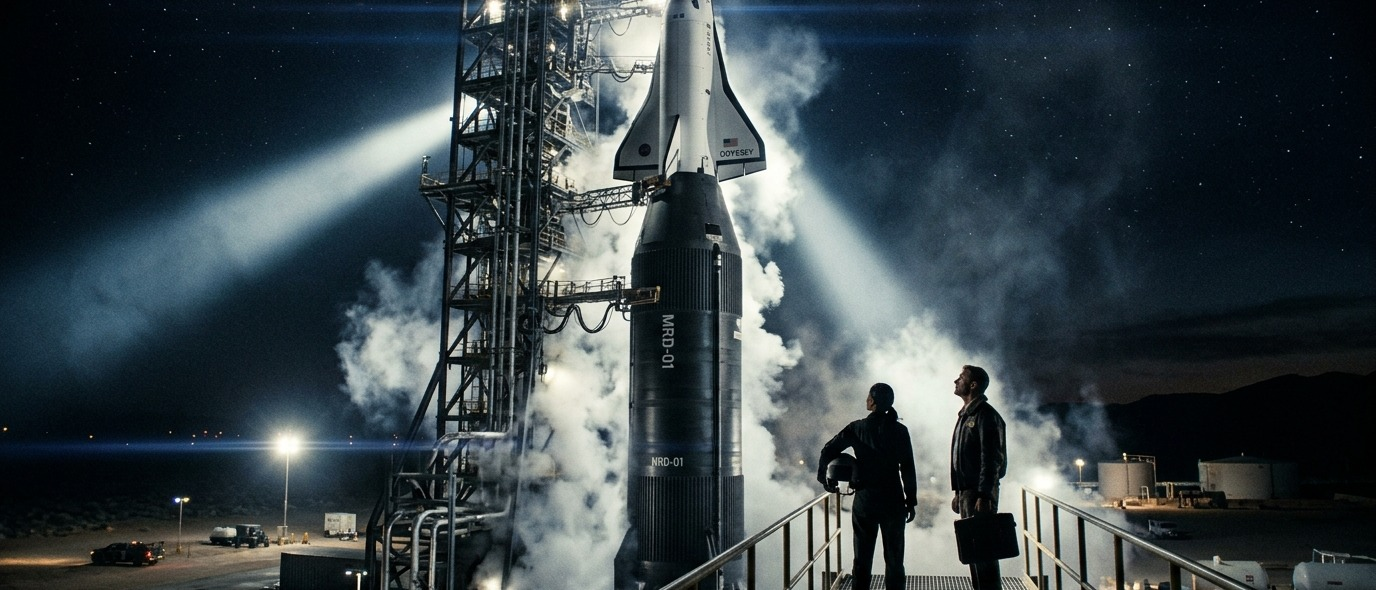
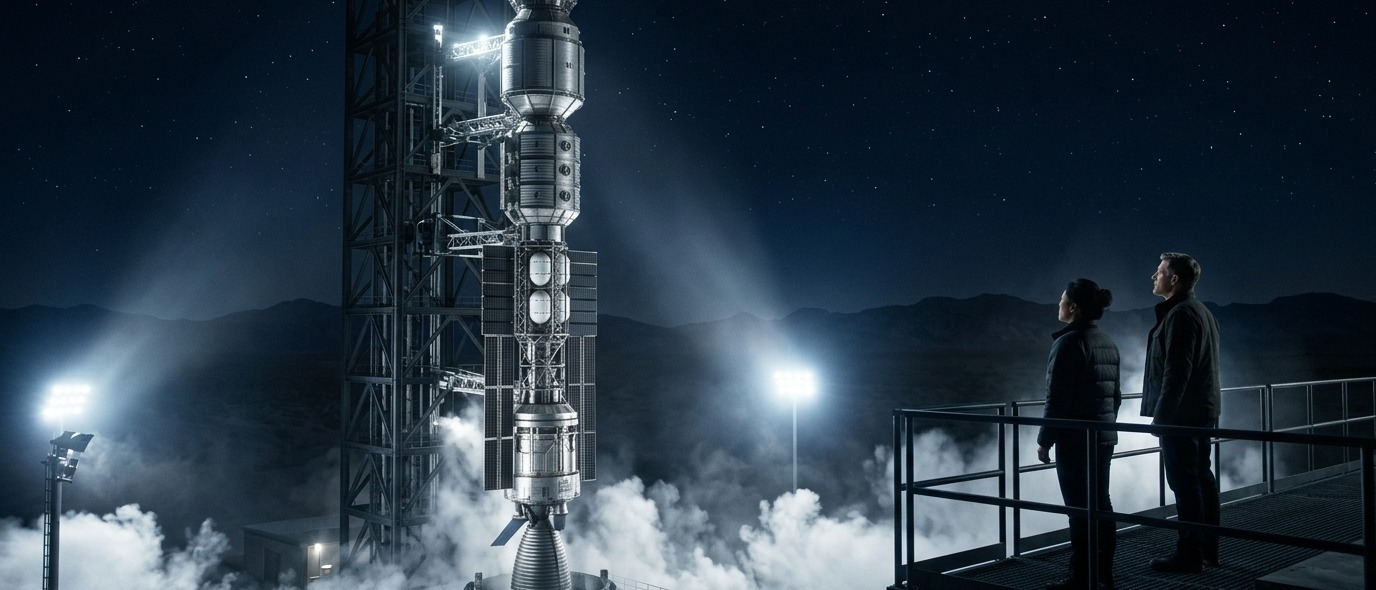
feat: muro de comentarios nativo por capitulo en tiempo real con Firebase Firestore

diff --git a/index.html b/index.html
@@ -18,7 +18,7 @@
         href="https://fonts.googleapis.com/css2?family=Cormorant+Garamond:ital,wght@0,400;0,600;0,700;1,400&family=Inter:wght@300;400;500;600;700&family=JetBrains+Mono:wght@400;600&family=Outfit:wght@400;600;700;800&display=swap"
         rel="stylesheet">
 
-    <link rel="stylesheet" href="style.css?v=1795042598905">
+    <link rel="stylesheet" href="style.css?v=1795069940522">
 </head>
 
 <body>
@@ -898,8 +898,8 @@
     <script src="https://www.gstatic.com/firebasejs/10.12.2/firebase-firestore-compat.js"></script>
 
     <!-- Cargar Datos y Lógica de la App (con control de versión para forzar actualización en móviles) -->
-    <script src="chapters-data.js?v=1795042598905"></script>
-    <script src="app.js?v=1795042598905"></script>
+    <script src="chapters-data.js?v=1795069940522"></script>
+    <script src="app.js?v=1795069940522"></script>
 
     <!-- Cloudflare Web Analytics (con soporte SPA para medir capítulos individuales) -->
     <script defer src='https://static.cloudflareinsights.com/beacon.min.js'

diff --git a/chapters-data.js b/chapters-data.js
@@ -5,9 +5,9 @@ const NOVEL_DATA = {
   "director": "Pedro Garat (Dirección & Coordinación) + Antigravity (IA)",
   "author": "Pedro Garat & Antigravity",
   "coverImage": "cover.jpg",
-  "lastUpdated": "18/11/2026, 23:56:38",
-  "buildTimestamp": "2026-11-18T22:56:38.905Z",
-  "buildId": 1795042598905,
+  "lastUpdated": "19/11/2026, 07:32:20",
+  "buildTimestamp": "2026-11-19T06:32:20.522Z",
+  "buildId": 1795069940522,
   "totalChapters": 25,
   "totalWords": 119378,
   "totalPages": "434.0",

diff --git a/historial/historial.md b/historial/historial.md
@@ -2,8 +2,8 @@
 ## *La Canción del Silencio / Antigravity*
 
 > **Agente Responsable:** **Memo** (Cronista y Archivero Mayor)
-> **Última actualización:** 2026-11-18 22:57:04 UTC
-> **Total de sesiones recopiladas:** 58
+> **Última actualización:** 2026-11-19 06:32:35 UTC
+> **Total de sesiones recopiladas:** 59
 
 Este documento recopila la transcripción íntegra y ordenada de las conversaciones, instrucciones, acuerdos técnicos, debates de trama y decisiones editoriales entre el Autor y Antigravity.
 
@@ -69,6 +69,7 @@ Este documento recopila la transcripción íntegra y ordenada de las conversacio
 - **[Sesión 56 — 2026-10-29 20:38:54 UTC](#sesión-56---59d754fa)**: /capitan-memo Quiero que revises toda la novela por si hay incoherencias, en nom...
 - **[Sesión 57 — 2026-11-02 07:26:43 UTC](#sesión-57---1d93dec2)**: @[f:\Onedrive\ANTIGRAVITY\NOVELA_3\novela\capitulos\capitulo_23.md:L156] Al prin...
 - **[Sesión 58 — 2026-11-08 09:35:38 UTC](#sesión-58---ff8430b6)**: haz un prompt como los anteriores que hicimos pero en el que aparezcan los agent...
+- **[Sesión 59 — 2026-11-19 06:30:54 UTC](#sesión-59---c43a3725)**: (Sin texto inicial)...
 
 ---
 
@@ -17092,7 +17093,7 @@ si porfa
 ## Sesión 58 - ff8430b6
 **Identificador completo:** `ff8430b6-7faf-4976-9a06-2441aa019e75`  
 **Fecha y Hora de inicio:** `2026-11-08 09:35:38 UTC`  
-**Intercambios registrados:** 97
+**Intercambios registrados:** 101
 
 ### 👤 Autor *(2026-11-08 09:35:38 UTC)*
 
@@ -18596,6 +18597,50 @@ Cuando actualices los textos en tu panel de autor de Inkspired, puedes responder
 - Actualiza la web con los nuevos banners
 - Elimina la opción de audiolibro
 - Cuando le dasl amenu de arriba a la izquierda que sólo aparezca la lista de capítulos
+
+### 🤖 Antigravity / Asistente *(2026-11-18 22:57:33 UTC)*
+
+Cambios aplicados y compilados en local:
+
+1. **Los 25 banners actualizados:** `node build-novel-data.js` ha enlazado los **25 banners 21:9** (`cap_1.jpg` a `cap_25.jpg`) en [chapters-data.js](file:///g:/OneDrive/ANTIGRAVITY/NOVELA_3/chapters-data.js) (`v=1795042598905`).
+2. **Opción de Audiolibro eliminada:** Retirados el botón **Audiolibro** de la cabecera, el botón **Escuchar Audiolibro** dentro de cada capítulo, el modal del reproductor en [index.html](file:///g:/OneDrive/ANTIGRAVITY/NOVELA_3/index.html) y su inicialización en [app.js](file:///g:/OneDrive/ANTIGRAVITY/NOVELA_3/app.js).
+3. **Menú izquierdo simplificado:** Al pulsar el icono de menú arriba a la izquierda (`#sidebar`), ahora solo muestra el título **Capítulos** (con el botón `×`) y la **lista de capítulos** limpia, sin portada, estadísticas, filtros ni botones extra.
+
+Estoy subiendo los cambios a GitHub (`task-1186`); en unos segundos te confirmo el despliegue.
+
+### 🤖 Antigravity / Asistente *(2026-11-18 22:57:50 UTC)*
+
+¡Despliegue completado en GitHub!
+
+* **Commit publicado:** `9164979` en `main` (`https://pedrogarat.github.io/sombra/`).
+* **Banners subidos:** Los 25 capítulos cuentan ya con su banner 21:9 (se acaban de añadir `cap_8.jpg` hasta `cap_25.jpg` junto con los 7 anteriores).
+* **Interfaz actualizada:** Audiolibro eliminado y menú izquierdo (`#sidebar`) limpio mostrando únicamente la lista de capítulos.
+
+En ~1 minuto GitHub Pages reflejará la versión `v=1795042598905` (puedes pulsar el botón `🔄` en la cabecera si tu navegador guarda caché anterior).
+
+### 👤 Autor *(2026-11-19 06:30:15 UTC)*
+
+La imagen banner del capítulo 18 muestra una nave que no tiene nada que ver con la del 19.
+Cámbiala prevaleciendo la del 19 (o similar). 
+Actualiza la web también
+
+### 🤖 Antigravity / Asistente *(2026-11-19 06:30:54 UTC)*
+
+He revisado [cap_18.jpg](file:///g:/OneDrive/ANTIGRAVITY/NOVELA_3/img/banners/cap_18.jpg) y [cap_19.jpg](file:///g:/OneDrive/ANTIGRAVITY/NOVELA_3/img/banners/cap_19.jpg): efectivamente, el 18 mostraba un cohete negro con un transbordador alado (con texto inventado), mientras que el 19 muestra la nave modular cilíndrica metálica con celosía, tanques y paneles/radiadores.
+
+He actualizado el prompt en [prompts_banners_21_9.md](file:///g:/OneDrive/ANTIGRAVITY/NOVELA_3/novela/prompts_banners_21_9.md#L84-L85) y estoy generando el nuevo banner del **Capítulo 18** tomando la nave de `cap_19.jpg` como referencia directa (vertical en la rampa de lanzamiento con los paneles plegados, sin alas y sin texto). En cuanto termine, lo recorto a 21:9, lo verifico y actualizo la web en GitHub.
+
+
+---
+
+## Sesión 59 - c43a3725
+**Identificador completo:** `c43a3725-bafc-4f19-90e4-3e13e50eded1`  
+**Fecha y Hora de inicio:** `2026-11-19 06:30:54 UTC`  
+**Intercambios registrados:** 1
+
+### 🤖 Antigravity / Asistente *(2026-11-19 06:31:42 UTC)*
+
+Generated and reported `C:\Users\Usuario\.gemini\antigravity\brain\ff8430b6-7faf-4976-9a06-2441aa019e75\cap_18_la_rampa_1795069885325.jpg` to the parent agent.
 
 
 ---

diff --git a/novela/prompts_banners_21_9.md b/novela/prompts_banners_21_9.md
@@ -82,7 +82,7 @@ Para mantener la coherencia visual en todos los capítulos, cada prompt inyecta 
 > **Prompt:** `Ultra-wide 21:9 panoramic harsh daylight wasteland shot across a desolate British countryside road in Suffolk under blinding white solar radiation. Parked outside an isolated brick farmhouse at dawn stands a heavily modified, aluminum-foil-sealed Land Rover Defender; beside it, David Wright (47-year-old British man with stubble, heavy leather coat, welding helmet resting on his arm) checks the reinforced door seals before setting out. Ultra-wide 21:9 panoramic cinematic film still, stark British wasteland realism, no text, aspect ratio 21:9.`
 
 ### Capítulo 18: La Rampa
-> **Prompt:** `Ultra-wide 21:9 panoramic monumental night pre-launch scene at Nellis Air Force Base, Nevada. A colossal two-stage white-and-black spacecraft—the digital MRD base topped with the sleek analog MAA spearhead—stands bathed in blinding xenon floodlights on an 80-meter steel gantry amidst venting liquid hydrogen vapor. At the base of the gantry, Dra. Sarah Lin and Dr. Thomas Wright look up in quiet awe before boarding begins. Ultra-wide 21:9 panoramic cinematic film still, epic aerospace scale, no text, aspect ratio 21:9.`
+> **Prompt:** `Ultra-wide 21:9 panoramic monumental night pre-launch scene at Nellis Air Force Base, Nevada. Standing vertically on an 80-meter steel launch gantry bathed in blinding xenon floodlights and billowing liquid hydrogen vapor is the exact modular deep-space spacecraft from Chapter 19: a cylindrical metallic silver-grey and titanium multi-module stack with ribbed pressure cylinders, exposed structural truss section with white propellant tanks, folded-back solar/radiator panels secured flush against the hull for launch, and a heavy nuclear-thermal bell nozzle at the base—NO shuttle wings, NO text or markings on the hull. On a foreground steel viewing catwalk, Dra. Sarah Lin (34-year-old East Asian woman, dark hair tied back, dark utility jacket) and Dr. Thomas Wright (52-year-old Caucasian British man, silver-templed brown hair, dark jacket) look up at the colossal modular spacecraft in quiet awe under a starry desert night sky. Ultra-wide 21:9 panoramic cinematic film still, photorealistic hard sci-fi aerospace scale, no text, no letters, aspect ratio 21:9.`
 
 ### Capítulo 19: Muro de Lorentz
 > **Prompt:** `Ultra-wide 21:9 panoramic deep-space scene approaching Lagrange point L1. Against the blazing corona of the Sun and a tiny distant blue Earth behind them, the sleek two-stage spacecraft glides silently through deep void toward a faint dark silhouette—Sombra—looming far ahead amidst subtle shimmering electromagnetic distortion ripples. Ultra-wide 21:9 panoramic cinematic film still, 2001/Interstellar hard sci-fi space scale, no text, aspect ratio 21:9.`
